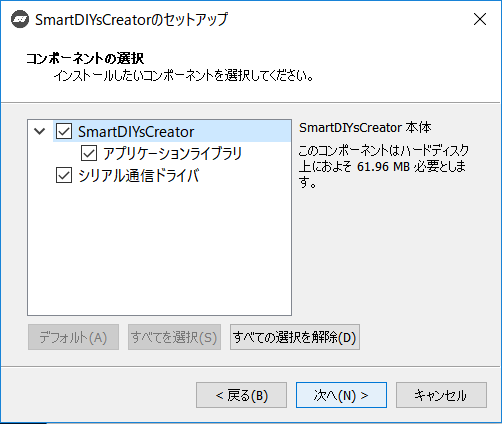
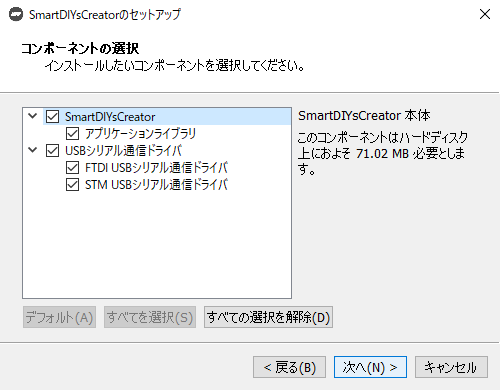
add etcher laser

Changed region(s): [[0.0, 0.0, 1.0, 1.0], [0.0, 0.0, 0.45, 0.0923]]

diff --git a/manual/flow.md b/manual/flow.md
@@ -24,6 +24,11 @@
 また、加工方法は「塗りのみ」「線のみ」「塗りと線」から選択することができます。
 ※縦書きや改行には対応しておりません。
 
+- `スキャン（EtcherLaserのみ）`
+加工機のカメラでスキャンした画像からデータを作成することができます。オリジナル画像（ラスタ加工）・塗りつぶし（ベクタ塗り加工）・輪郭線（ベクタ線加工）を選択できます。カメラマーカが障害物で隠れないように注意してください。
+※上蓋が閉まっている場合はボタンが無効になります。
+
+
 ### レイアウト編集
 アイテムを追加するとキャンバスにグラフィックオブジェクトが配置されます。
 配置されたオブジェクトの位置や大きさ、回転角度を設定します。
@@ -74,12 +79,20 @@
 ---------------
 
 ### 安全チェック項目
+#### FABOOLシリーズ
 - レーザヘッドの高さは適切ですか？
 - 加工エリア内や加工機の近くに障害物はありませんか？
 - 素材を置いている台は燃えにくいですか？  
   （素材の厚さによってはレーザ光が到達する可能性があります）
 - 加工範囲が配置している素材の中に収まっていますか？
 
+#### EthcerLaser
+- レーザヘッドの高さは適切ですか？
+- 加工エリア内や加工機の近くに障害物はありませんか？
+- 底板がきちんと閉まっていますか？
+- 底を開けて加工する場合、燃えにくい台の上に素材を置いていますか？  
+  （素材の厚さによってはレーザ光が到達する可能性があります）
+- 加工範囲が配置している素材の中に収まっていますか？
 ---------------
 
 

diff --git a/manual/names.md b/manual/names.md
@@ -57,6 +57,7 @@
 
 ### 設定
 - ユーザ設定: 各種設定を行うことができます。
+- EtcherLaser: (EtcherLaserのみ) カメラ位置と加工結果にズレがある場合の位置補正や、ファームウェアのバージョンアップを行うことがでます。
 
 ### ヘルプ
 - SmartDIYs Creatorについて: ソフトウェアのバージョン情報を確認できます。
@@ -94,6 +95,7 @@
 - (7) 削除: 選択しているアイテムを削除します。
 - (8) 元に戻す: プロジェクトの編集状態を1つ前の状態に戻します。
 - (9) やり直す: プロジェクトの編集状態を1つ後の状態に進めます。
+- (10) キャプチャ: (EtcherLaserのみ) 加工機のカメラで撮影した加工エリアの範囲をキャンバス上に表示します。カメラマーカが障害物で隠れないように注意してください。※レンズの歪み等で表示位置に多少の誤差が生じることがございます。
 
 ## プロパティパレット
 ### グラフィックオブジェクト選択時

diff --git a/manual/releasenote.md b/manual/releasenote.md
@@ -10,3 +10,4 @@
 | 2019.6.4  | v1.0.5     | ユーザ原点モードに関する不具合修正<br/>特定のDXFデータ読込時のクラッシュ回避<br/>新規アセット追加<br/>UI/UX改善<br/>                          |
 | 2019.6.28 | v1.0.6     | SVG解析に関する不具合修正<br/>キャンバスグリッド幅の設定追加<br/>macOS ダークモードでの表示崩れの改善<br/>新規アセット追加<br/>UI/UX改善<br/> |
 | 2019.8.22 | v1.0.7     | UI/UX改善<br/>新規アセット追加<br/>その他 軽微な不具合の修正<br/>                                                                             |
+| 2019.11.9 | v1.1.0     | EtcherLaserに対応<br/>UI/UX改善<br/>SVG解析に関する不具合修正<br/>その他 軽微な不具合の修正<br/>                                              |

diff --git a/manual/install.md b/manual/install.md
@@ -41,7 +41,7 @@
 <img alt="SmartScreen" src="./images/install/win_install_7.png" style="width:70%">
 </p>
 
-9. インストールするコンポーネントが表示されます。全てにチェックが入っていることを確認し、「次へ」ボタンをクリックします。
+9. インストールするコンポーネントが表示されます。必要なコンポーネントにチェックが入っていることを確認し、「次へ」ボタンをクリックします。
 <p align="center">
 <img alt="SmartScreen" src="./images/install/win_install_8.png" style="width:70%">
 </p>
